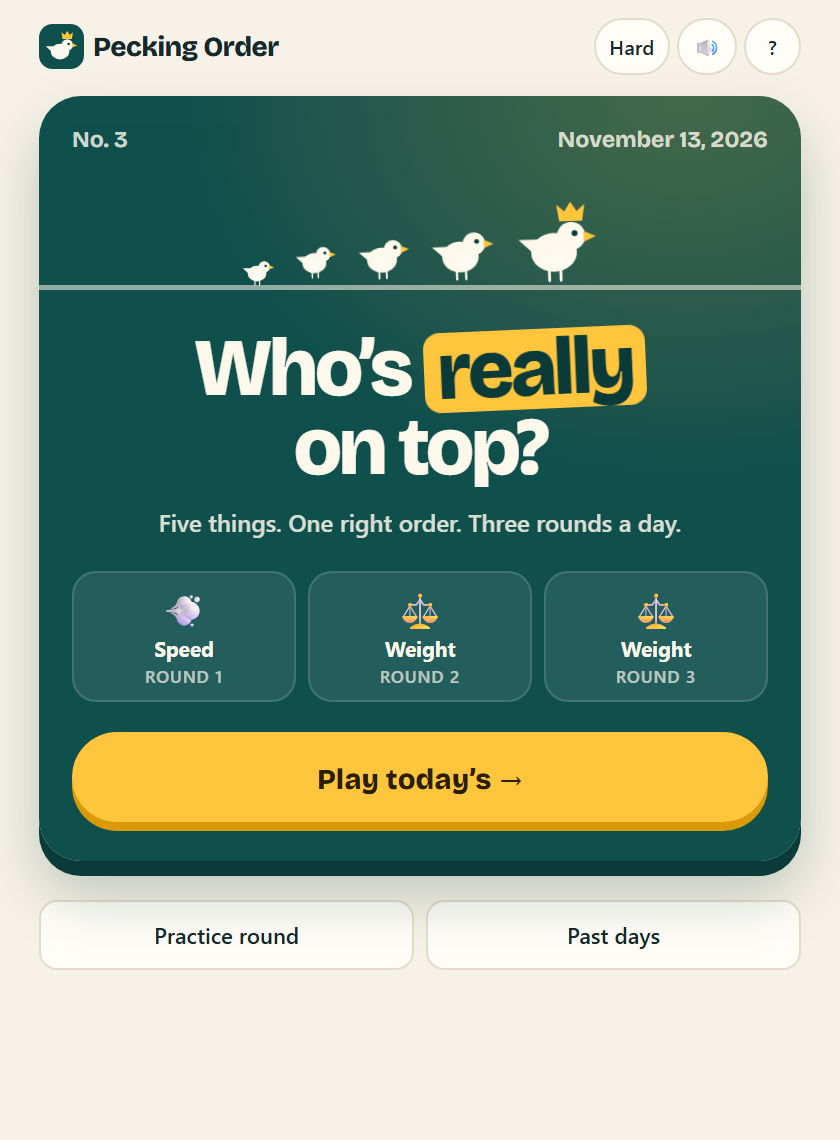
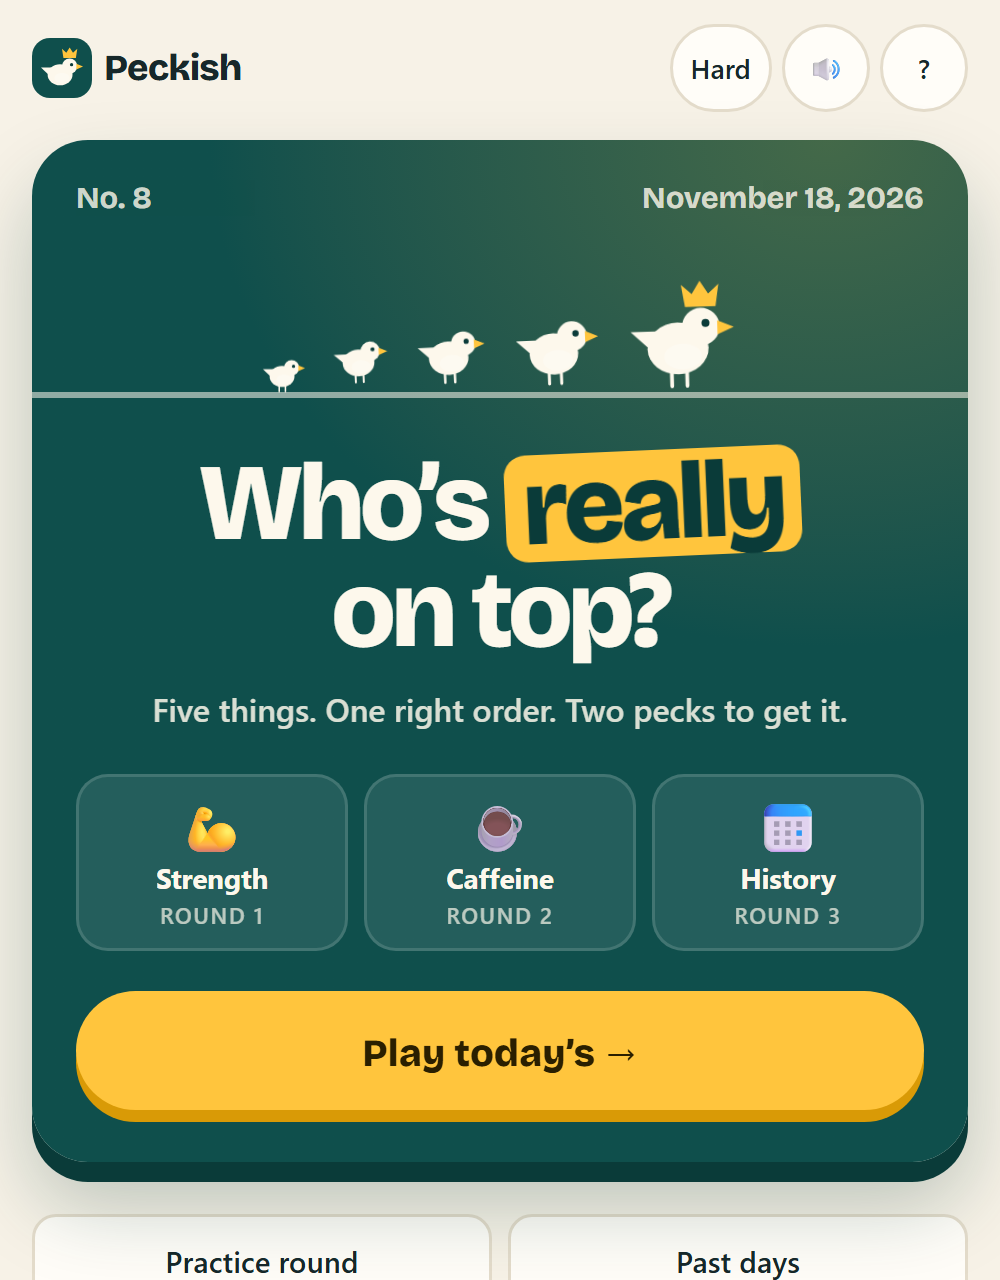
readme for recruiters: tech, how it works, what I learned, hint scoring, fresh screenshot

diff --git a/README.md b/README.md
@@ -1,74 +1,88 @@
 # Peckish
 
-**Play it: https://darrock712.github.io/pecking-order/**
+**A daily ordering puzzle. Play it: https://darrock712.github.io/pecking-order/**
 
 <img src="docs/start.png" alt="Peckish start screen: five birds on a wire, smallest to largest, above today's three rounds and a Play button" width="420">
 
-A daily ordering puzzle. Each day everyone gets the same three rounds: five things and a rule ("lightest → heaviest", "oldest → newest"). Put them in the numbered slots (the labels say what goes in slot 1 and slot 5), lock it in, and watch the answer resolve one tile at a time. You get two pecks per round: lock in, read the colours, fix it once.
+Every day, everyone gets the same three rounds. Each round is five things and a rule ("weakest → strongest bite", "oldest → newest"). Put them in the numbered slots, lock it in, and watch the answer resolve one tile at a time, with bars that show how far apart the real values are. It takes about a minute, runs entirely in the browser, and needs no account.
 
-It takes about a minute a day, runs entirely in the browser, and needs no account.
+I built it as a portfolio project: a small, finished product with real users in mind, rather than a tutorial clone.
+
+## Tech
+
+- **React 19 + TypeScript (strict)**, built with **Vite**, plain CSS (no UI library)
+- **Vitest**: 221 unit tests covering the game rules, date maths, save loading and the puzzle content itself
+- **oxlint** for linting
+- **GitHub Actions**: every push runs lint, tests and build, then deploys to **GitHub Pages**
+- **PWA**: web manifest and a network-first service worker, so it installs to a home screen and plays offline
+- **Canvas + Web Share API** for the result card, **Web Audio** for synthesised sound, the **Vibration API** for haptics
+- No backend: progress lives in `localStorage`
+
+## How it works
+
+- **The game core is pure functions with no React** (`src/game/`): the daily deal, the seeded shuffle, scoring, stats and save parsing. The UI only calls them, so the rules are tested in isolation.
+- **Sets are stored in their correct order.** An item is right when its index equals its slot, which keeps scoring to a few lines and makes content mistakes easy to spot in review.
+- **Everyone gets the same puzzle.** The puzzle number comes from the player's local date, projected onto UTC midnight before subtracting, so daylight-saving changes never skip or repeat a day. The starting shuffle is seeded by the day.
+- **Content is validated in CI.** Tests check every set has five unique items in rising order, values far enough apart to be a fair question, a teaser, and a matching set for hard mode. Bad content fails the build.
+- **Saved data is never trusted.** Old, half-written or hand-edited saves are rebuilt field by field, so they can't crash the game or fake a score. A first peck and a used hint are saved straight away, so reloading can't buy a fresh try.
+- **Accessible by default.** Tiles keep a stable DOM order and move with CSS, so keyboard focus is never lost while reordering. Drag, tap-to-swap or arrow keys all work; screen readers get labels and live announcements; reduced-motion is respected.
+- **Sharing is spoiler-free.** The result is an emoji grid, plus a PNG card drawn on a canvas. On phones it goes to the native share sheet (as an image where supported); desktops copy the text, and "Save image" downloads the card.
 
 ## Features
 
-- **Three rounds a day**: a warm-up, a trickier one, and a twist round built around something counterintuitive.
-- **Mixed-bag rounds** every other day from day 5: five things counted in five different units (pieces, inches, pounds, calories, mph), ranked by the bare number.
-- **No category twice in a day**: the dealer skips ahead rather than repeat one.
-- **Two pecks per round**: a tile fixed on the second peck scores 4 instead of 6. Tiles flip green (right spot), amber (one place off) or red, with the real value beside each.
-- **The reveal shows scale**: each tile grows a bar for its value, then every tile slides to where it really belongs, so you see how wrong (or right) you were at a glance.
-- **Near misses are named**: "one swap away" rather than a bare score.
-- **Hard mode** hides the rule. You get one solved example set and have to work out what the order means before arranging your own.
-- **Streak that counts days played**, not days won. A low score never breaks it.
-- **Spoiler-free sharing**: an emoji grid plus a teaser line.
-- **Progress at a glance**: round pips with a running score, and a meter comparing today with your average.
+- **Three rounds a day**: a warm-up, a trickier one, and a twist.
+- **Two pecks per round**: lock in, see which tiles are right, one place off or further, then fix it once.
+- **One hint per round**: pick a slot and ask "Is it right?", or reveal that tile's value. The answer stays on the tile; a hinted round keeps its points but can't be perfect, and the share shows a 💡.
+- **Mixed-bag rounds** every other day from day 5: five things in five different units, ranked by the bare number.
+- **The reveal shows scale**: each tile grows a bar for its value, then slides to where it really belongs.
+- **Hard mode** hides the rule and gives one solved example set as the only clue.
+- **Streak counts days played**, not days won, and points build a rank from Egg to Top Bird.
 - **Practice rounds** and an **archive** of past days, neither of which affects stats.
-- Drag, tap-to-swap, or arrow keys; screen-reader labels and live announcements; light and dark themes; reduced-motion support; installable and playable offline.
+- Light and dark themes, installable, works offline.
 
 ## Scoring
 
 | | Points |
 |---|---|
-| Item in the right spot | 6 |
-| Item one place off | 3 |
-| Perfect round bonus | 3 |
-| Perfect day bonus | 1 |
+| Tile in the right slot | 6 |
+| Tile fixed on the second peck | 4 |
+| Tile one place off | 3 |
+| Perfect round (right first time, no hint) | +3 |
+| Perfect day | +1 |
 
 A round is worth up to 33, so three perfect rounds plus the day bonus make exactly 100.
 
 ## Run it
 
+Needs Node 22 or later.
+
 ```bash
 npm install
-npm run dev      # local dev server
+npm run dev      # local dev server (add ?day=N to jump to a puzzle in dev)
 npm test         # unit tests + content validation
 npm run lint
 npm run build    # production build in dist/
+npm run og       # regenerate public/og.png from public/og.svg (uses a local Chrome or Edge)
 ```
-
-## How it is built
-
-React + TypeScript + Vite, plain CSS, no backend. Progress is stored in `localStorage`.
 
 ```
 src/
-  game/         pure functions, no React, fully unit tested
-    daily.ts      puzzle number from the local date, set selection, seeded shuffle, hard-mode example
-    scoring.ts    marks, points, verdicts, share text
-    stats.ts      streak and totals
-    storage.ts    localStorage with safe fallbacks
-  data/
-    sets.ts       the puzzle content
-    sets.test.ts  content rules, enforced in CI
-  components/   Round (arrange + reveal), Summary, visual effects
-  lib/          number formatting, bar scaling, synthesised sound and haptics
+  game/         pure rules, no React: daily deal, scoring, stats, save parsing
+  data/         the puzzle content and its validation tests
+  components/   Home, Round (arrange, hint, reveal), Summary, help dialog
+  lib/          number formatting, share card drawing, sound and haptics
+scripts/        og image generator
 ```
 
-Design decisions worth knowing:
+## What I learned
 
-- **Sets are stored in their correct order.** An item is right when its index equals its position, which keeps scoring to a few lines and makes content errors easy to spot in review.
-- **The puzzle number comes from the player's local calendar date**, projected onto UTC midnight before subtracting, so daylight-saving changes can never skip or repeat a day.
-- **The starting shuffle is seeded by the day**, so every player sees the same starting order. It never starts with more than one item already in place.
-- **Tiles keep a stable DOM order and move with CSS**, so focus is never lost while reordering with the keyboard.
-- **The service worker is network-first**, so fixes and new puzzles arrive immediately and the cache is only a fallback when offline.
+- **Separating rules from UI pays off.** Keeping the game logic as plain functions meant I could test scoring, the date maths and the content without touching React, and change the UI freely.
+- **Dates are harder than they look.** A naive "days since launch" breaks on daylight-saving changes; working in UTC midnights fixed it.
+- **Tests can guard content, not just code.** The puzzle data is the product, so CI checks it the same way it checks the logic.
+- **Never trust what's in storage.** Validating saves on load turned a class of crashes (and easy cheating) into a non-issue.
+- **Accessibility needs testing on a real device size.** A phone-width pass found small tap targets and a dialog that dropped keyboard focus on Escape; both are fixed.
+- **Browser APIs have sharp edges.** Safari only opens the share sheet straight from a tap, so the share card is drawn ahead of time rather than when the button is pressed.
+- **Scope is a feature.** Things that need a server, like "you beat 80% of players", are written up below instead of half-built.
 
 ## Content
 
